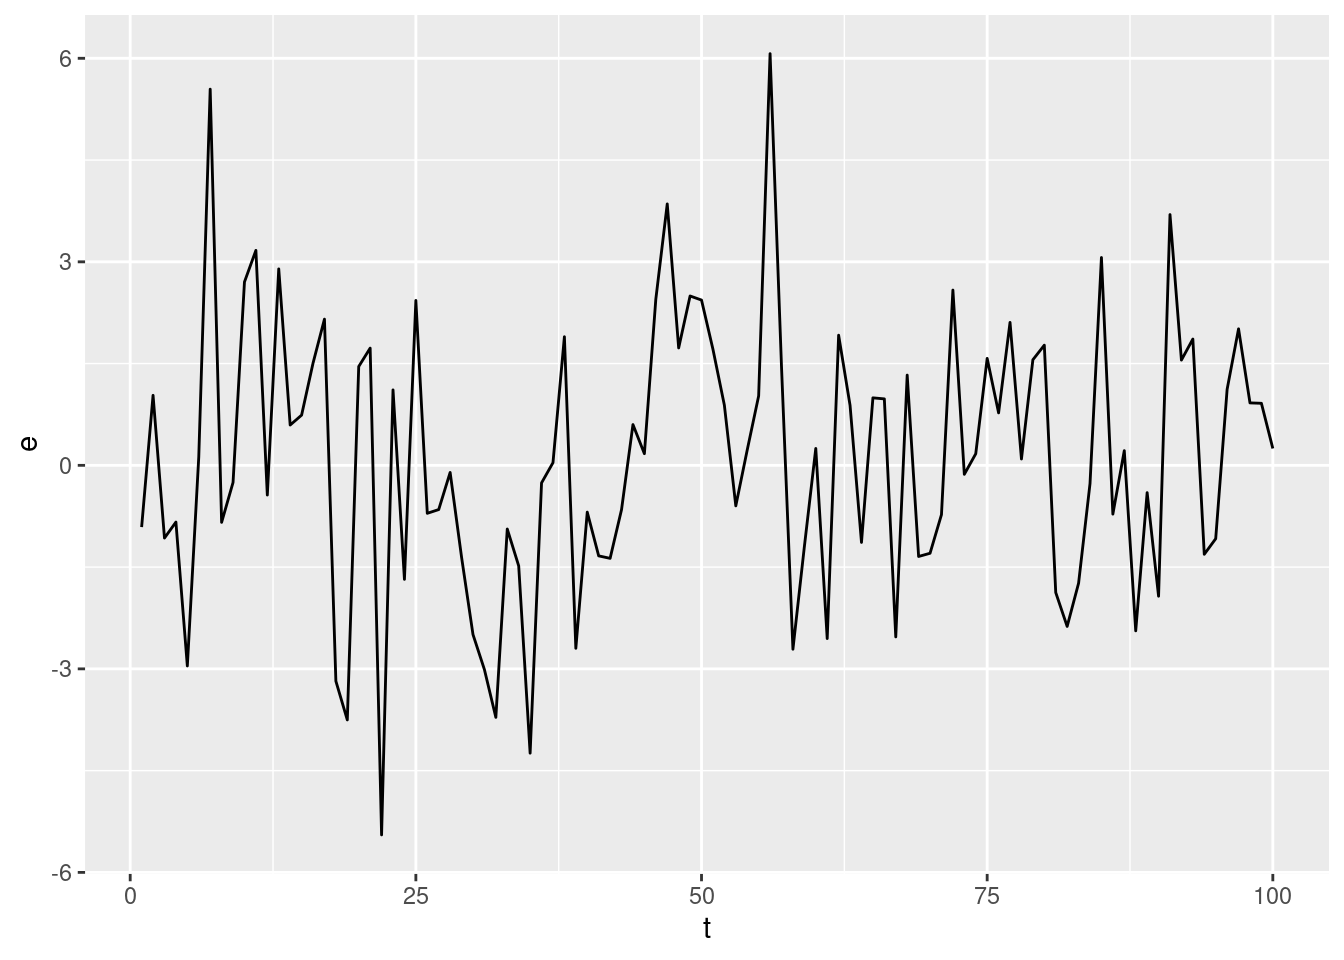
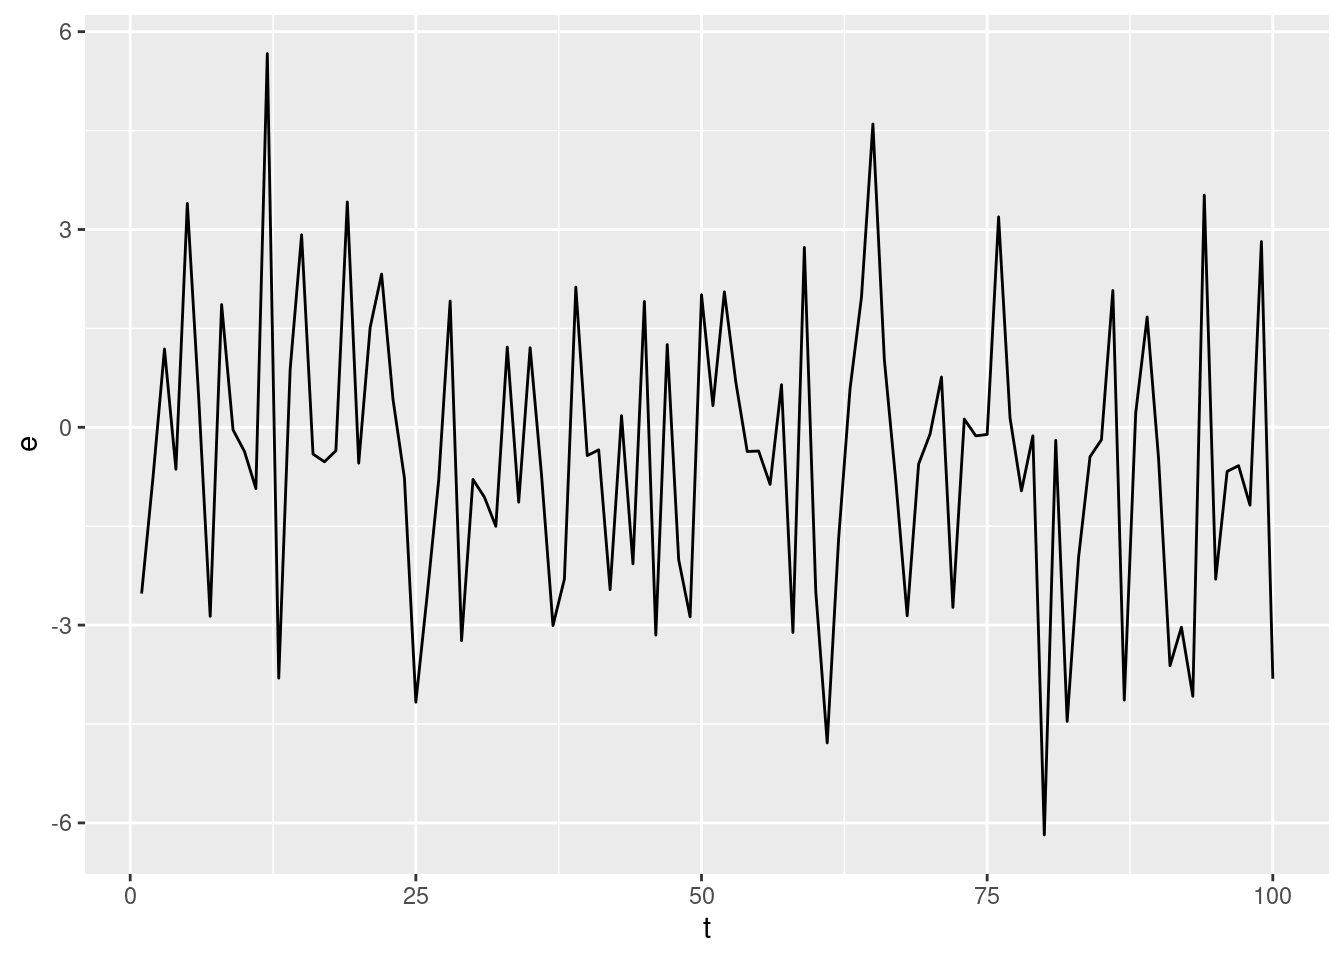
Built site for gh-pages

diff --git a/04-AR.html b/04-AR.html
@@ -326,23 +326,23 @@ e^{(4)}_t &amp; \sim N(\mu = 10, \sigma^2 = 3^2)
 # Groups:   mu_lab [2]
   mu_lab  sigma_lab Average StdDev
   &lt;chr&gt;   &lt;chr&gt;       &lt;dbl&gt;  &lt;dbl&gt;
-1 mu = 0  sigma = 1  0.249   0.989
-2 mu = 0  sigma = 3 -0.0390  3.42 
-3 mu = 10 sigma = 1 10.1     1.10 
-4 mu = 10 sigma = 3 10.3     3.30 </code></pre>
+1 mu = 0  sigma = 1 -0.0396  0.992
+2 mu = 0  sigma = 3  0.0144  3.07 
+3 mu = 10 sigma = 1  9.93    1.07 
+4 mu = 10 sigma = 3 10.1     3.20 </code></pre>
 </div>
 </div>
 <p>Now that we have seen some realizations of a couple of purely random processes, let’s look at the empirical summaries of the time series.</p>
 <div class="cell">
 <div class="sourceCode cell-code" id="cb8"><pre class="sourceCode r code-with-copy"><code class="sourceCode r"><span id="cb8-1"><a href="#cb8-1" aria-hidden="true" tabindex="-1"></a><span class="fu">mean</span>(dt<span class="sc">$</span>e)</span></code><button title="Copy to Clipboard" class="code-copy-button"><i class="bi"></i></button></pre></div>
 <div class="cell-output cell-output-stdout">
-<pre><code>[1] 0.1138879</code></pre>
+<pre><code>[1] -0.4351735</code></pre>
 </div>
 </div>
 <div class="cell">
 <div class="sourceCode cell-code" id="cb10"><pre class="sourceCode r code-with-copy"><code class="sourceCode r"><span id="cb10-1"><a href="#cb10-1" aria-hidden="true" tabindex="-1"></a><span class="fu">sd</span>(dt<span class="sc">$</span>e)</span></code><button title="Copy to Clipboard" class="code-copy-button"><i class="bi"></i></button></pre></div>
 <div class="cell-output cell-output-stdout">
-<pre><code>[1] 2.037092</code></pre>
+<pre><code>[1] 2.196241</code></pre>
 </div>
 </div>
 <p>Let’s also compute is (empirical) auto-correlation coefficients applying the formula</p>
@@ -362,15 +362,15 @@ e^{(4)}_t &amp; \sim N(\mu = 10, \sigma^2 = 3^2)
 <div class="cell">
 <div class="sourceCode cell-code" id="cb13"><pre class="sourceCode r code-with-copy"><code class="sourceCode r"><span id="cb13-1"><a href="#cb13-1" aria-hidden="true" tabindex="-1"></a><span class="fu">cor</span>(dt<span class="sc">$</span>e, dt<span class="sc">$</span>e_l1, <span class="at">use =</span> <span class="st">"complete.obs"</span>)</span></code><button title="Copy to Clipboard" class="code-copy-button"><i class="bi"></i></button></pre></div>
 <div class="cell-output cell-output-stdout">
-<pre><code>[1] 0.1710924</code></pre>
+<pre><code>[1] -0.09224746</code></pre>
 </div>
 <div class="sourceCode cell-code" id="cb15"><pre class="sourceCode r code-with-copy"><code class="sourceCode r"><span id="cb15-1"><a href="#cb15-1" aria-hidden="true" tabindex="-1"></a><span class="fu">cor</span>(dt<span class="sc">$</span>e, dt<span class="sc">$</span>e_l2, <span class="at">use =</span> <span class="st">"complete.obs"</span>)</span></code><button title="Copy to Clipboard" class="code-copy-button"><i class="bi"></i></button></pre></div>
 <div class="cell-output cell-output-stdout">
-<pre><code>[1] 0.03531957</code></pre>
+<pre><code>[1] 0.03986268</code></pre>
 </div>
 <div class="sourceCode cell-code" id="cb17"><pre class="sourceCode r code-with-copy"><code class="sourceCode r"><span id="cb17-1"><a href="#cb17-1" aria-hidden="true" tabindex="-1"></a><span class="fu">cor</span>(dt<span class="sc">$</span>e, dt<span class="sc">$</span>e_l3, <span class="at">use =</span> <span class="st">"complete.obs"</span>)</span></code><button title="Copy to Clipboard" class="code-copy-button"><i class="bi"></i></button></pre></div>
 <div class="cell-output cell-output-stdout">
-<pre><code>[1] 0.07710402</code></pre>
+<pre><code>[1] -0.05228036</code></pre>
 </div>
 </div>
 <p>You can obtain these auto-correlation coefficients using the <code>acf</code> function:</p>
@@ -381,9 +381,9 @@ e^{(4)}_t &amp; \sim N(\mu = 10, \sigma^2 = 3^2)
 Autocorrelations of series 'dt$e', by lag
 
      0      1      2      3      4      5      6      7      8      9     10 
- 1.000  0.171  0.035  0.077  0.158 -0.002  0.123  0.024  0.002  0.006  0.045 
+ 1.000 -0.091  0.039 -0.051 -0.106  0.054 -0.061  0.066 -0.062  0.015  0.026 
     11     12     13     14     15     16     17     18     19     20 
--0.138 -0.050  0.076 -0.081 -0.214 -0.115 -0.064 -0.083 -0.055 -0.144 </code></pre>
+ 0.061  0.191  0.108 -0.058 -0.131 -0.084 -0.099  0.014  0.026  0.082 </code></pre>
 </div>
 </div>
 <p>and you can visualize the auto-correlation coefficients</p>
@@ -412,7 +412,7 @@ Q = T(T + 2)\sum_{j = 1}^{k}\frac{\hat{\rho}^2(j)}{T - j}
     Box-Pierce test
 
 data:  dt$e
-X-squared = 3.6303, df = 3, p-value = 0.3042</code></pre>
+X-squared = 1.2267, df = 3, p-value = 0.7466</code></pre>
 </div>
 </div>
 </section>
@@ -494,10 +494,12 @@ y_{t}(\underbrace{L^0 - \phi_1 L - \phi_2 L^2 - \phi_3 L^3}_{\text{lag polynomia
 \]</span> <span class="math display">\[
 \lambda^{3} - \phi_1\lambda^{2} - \phi_2 \lambda - \phi_3 = (\lambda - \lambda_{1}^*)(\lambda - \lambda_2^*)(\lambda - \lambda_3^*)
 \]</span> <span class="math display">\[
+\begin{align}
 (\lambda - \lambda_{1}^*)(\lambda - \lambda_2^*)(\lambda - \lambda_3^*) = \\
 (\lambda - 0.8)(\lambda - 0.2)(\lambda + 0.5) = \\
 \left[\lambda^2 - \lambda + 0.16\right](\lambda + 0.5) = \\
 \lambda^3 - \lambda^2 + 0.16\lambda + 0.5\lambda^2 - 0.5\lambda + 0.08
+\end{align}
 \]</span></p>
 <p><span class="math display">\[
 \lambda^{3} - \phi_1\lambda^{2} - \phi_2 \lambda - \phi_3\\
@@ -508,30 +510,43 @@ y_{t}(\underbrace{L^0 - \phi_1 L - \phi_2 L^2 - \phi_3 L^3}_{\text{lag polynomia
 \phi_2 = 0.34\\
 \phi_3 = -0.08
 \]</span> <span class="math display">\[
-y_{t} = \delta + \phi_{1}y_{t - 1} + \phi_2 y_{t - 2} + \phi_3 y_{t - 3} + e_t\\
-y_{t} = \delta + 0.5y_{t - 1} + 0.34y_{t - 2} - 0.08 y_{t - 3} + e_t
+\begin{align}
+y_{t} &amp; = \phi_0 + \phi_{1}y_{t - 1} + \phi_2 y_{t - 2} + \phi_3 y_{t - 3} + e_t\\
+y_{t} &amp; = \phi_0 + 0.5y_{t - 1} + 0.34y_{t - 2} - 0.08 y_{t - 3} + e_t
+\end{align}
 \]</span> Now we can calculate</p>
 <p>First order autocorrelation: <span class="math display">\[
 \rho(y_{t}, y_{t - 1}) = \rho_1 = \frac{Cov(y_{t}, y_{t - 1})}{Var(y_{t})}
 \]</span> The Yule-Walker equations connect the autocorrelations (and autocovariances) and the model coefficients.</p>
 <p><span class="math display">\[
-\rho_1 = \phi_1 \rho_0 + \phi_2\rho_1 + \ldots + \phi_R\rho_{R - 1}\\
-\rho_2 = \phi_1 \rho_1 + \phi_2 + \ldots + \phi_R \rho_{R - 2} \\
+\begin{align}
+\rho_1 &amp; = \phi_1 \rho_0 + \phi_2\rho_1 + \ldots + \phi_R\rho_{R - 1}\\
+\rho_2  &amp; = \phi_1 \rho_1 + \phi_2 + \ldots + \phi_R \rho_{R - 2} \\
 \vdots\\
-\rho_{R - 1} = \phi_1 \rho_{R - 1} + \phi_2\rho_{R - 2} + \ldots + \phi_R\rho_0
+\rho_{R - 1}  &amp; = \phi_1 \rho_{R - 1} + \phi_2\rho_{R - 2} + \ldots + \phi_R\rho_0
+\end{align}
 \]</span> In the case of an AR(3)</p>
 <p><span class="math display">\[
-\rho_1 = \phi_1 + \phi_2 \rho_1 + \phi_3 \rho_2\\
-\rho_{2} = \phi_{1}\rho_{2 - 1} + \phi_2 \rho_{2 - 2} + \phi_3\rho_{3 - 2}\\
+\begin{align}
+\rho_1 &amp; = \phi_1 + \phi_2 \rho_1 + \phi_3 \rho_2\\
+\rho_{2} &amp; = \phi_{1}\rho_{2 - 1} + \phi_2 \rho_{2 - 2} + \phi_3\rho_{3 - 2}\\
+\end{align}
+\]</span> Keep in mind that</p>
+<p><span class="math display">\[
+\rho(k) = \rho(-k)
 \]</span></p>
 <p><span class="math display">\[
-\rho_1 = \phi_1 + \phi_2 \rho_1 + \phi_3 \rho_2\\
-\rho_{2} = \phi_{1}\rho_{1} + \phi_2 \rho_{0} + \phi_3\rho_{1}\\
+\begin{align}
+\rho_1 &amp; = \phi_1 + \phi_2 \rho_1 + \phi_3 \rho_2\\
+\rho_{2} &amp; = \phi_{1}\rho_{1} + \phi_2 \rho_{0} + \phi_3\rho_{1}\\
+\end{align}
 \]</span></p>
 <p><span class="math display">\[
+\begin{align}
 \rho_1 = 0.5 + 0.34 \rho_1 - 0.08 \rho_2\\
 \rho_2 = 0.5\rho_1 + 0.34 - 0.08\rho_1\\
-\]</span></p>
+\end{align}
+\]</span> This is a system of two unknowns and two equations. Its solution is left as an exercise.</p>
 
 
 </section>

diff --git a/01-Introduction.html b/01-Introduction.html
@@ -363,7 +363,7 @@ x_{7} = 1.02^{7}\times 10 \approx 11.487
 <span id="cb26-4"><a href="#cb26-4" aria-hidden="true" tabindex="-1"></a><span class="co"># Print the value of now</span></span>
 <span id="cb26-5"><a href="#cb26-5" aria-hidden="true" tabindex="-1"></a>now</span></code><button title="Copy to Clipboard" class="code-copy-button"><i class="bi"></i></button></pre></div>
 <div class="cell-output cell-output-stdout">
-<pre><code>[1] "2023-11-15 12:14:59 UTC"</code></pre>
+<pre><code>[1] "2023-11-15 14:59:32 UTC"</code></pre>
 </div>
 <div class="sourceCode cell-code" id="cb28"><pre class="sourceCode r code-with-copy"><code class="sourceCode r"><span id="cb28-1"><a href="#cb28-1" aria-hidden="true" tabindex="-1"></a><span class="co"># Day of the month</span></span>
 <span id="cb28-2"><a href="#cb28-2" aria-hidden="true" tabindex="-1"></a><span class="fu">day</span>(now)</span></code><button title="Copy to Clipboard" class="code-copy-button"><i class="bi"></i></button></pre></div>
